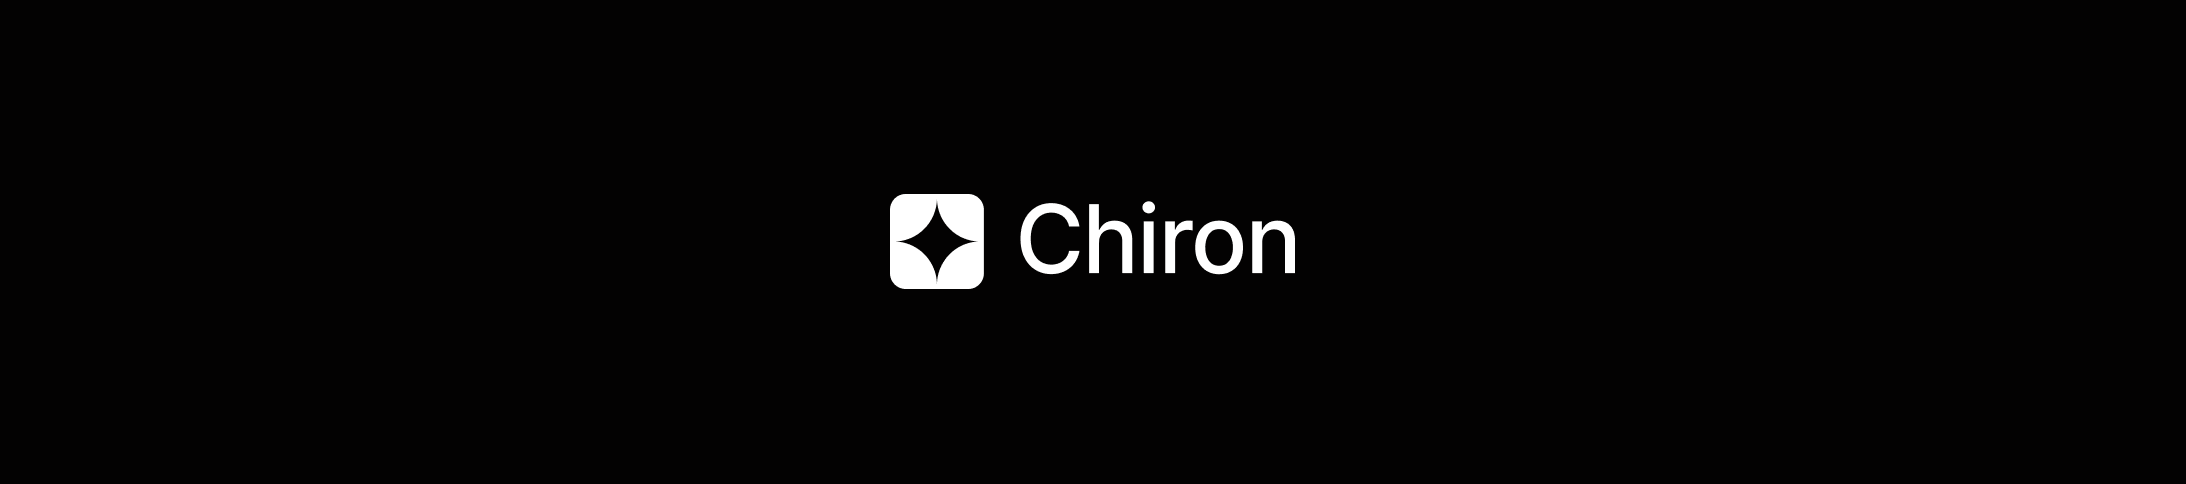
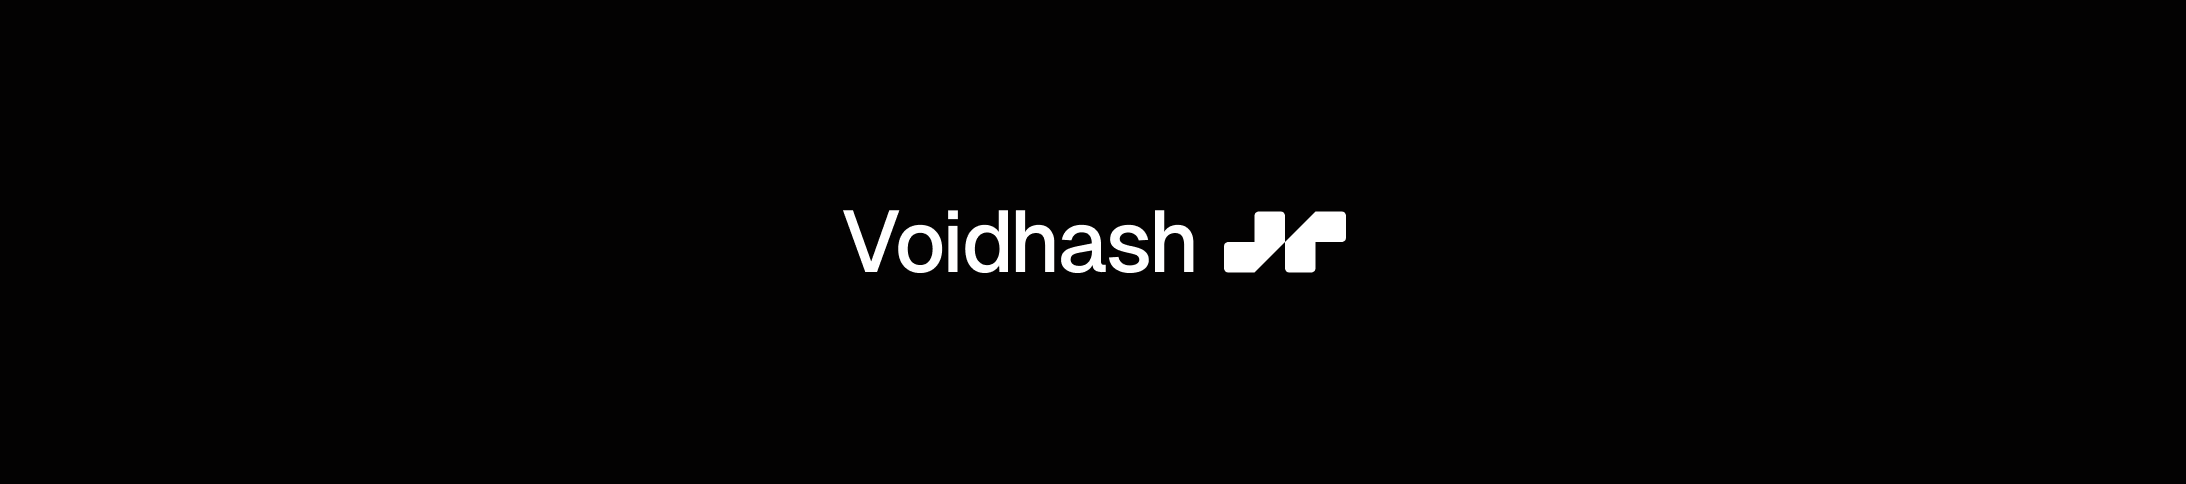
chore: improve readme

Changed region(s): [[0.3733, 0.4029, 0.6221, 0.6198]]

diff --git a/README.md b/README.md
@@ -4,73 +4,71 @@
     <source srcset="./banner.png" media="(prefers-color-scheme: light)">
     <img src="./banner.png" alt="Better Auth Logo">
   </picture>
+<hr />
+  <p>
+    Voidhash is <strong>WIP</strong>. We're working on the first version of the product.
+  </p>
+
+  <hr />
   <h2 align="center">
-    Voidhash
+    Subscription management platform for React Native
   </h2>
 
   <p align="center">
-    <!-- The universal subscription management library in Typescript for orchestrating subscriptions from Google Play, App Store, Stripe and more. -->
-    <br />
-    <a href="https://chiron.sh"><strong>Learn more »</strong></a>
+    Voidhash is an open-source subscription management platform for React Native that allows you to integrate Google Play and App Store purchases with a single command.
     <br />
     <br />
-    <a href="https://chiron.sh">Website</a>
+    <a href="https://voidhash.com"><strong>Join Waitlist →</strong></a>
+    <br />
+    <br />
+    <a href="https://voidhash.com">Website</a>
     ·
-    <a href="https://github.com/voidhashcom/Chiron/issues">Issues</a>
+    <a href="https://github.com/voidhashcom/voidhash">GitHub</a>
+    ·
+    <a href="https://x.com/voidhashcom">Twitter</a>
   </p>
+</p>
 
-<!-- [![npm](https://img.shields.io/npm/dm/better-auth)](https://npm.chart.dev/better-auth?primary=neutral&gray=neutral&theme=dark)
-[![npm version](https://img.shields.io/npm/v/better-auth.svg)](https://www.npmjs.com/package/better-auth)
-[![GitHub stars](https://img.shields.io/github/stars/better-auth/better-auth)](https://github.com/better-auth/better-auth/stargazers) -->
+## ✨ Features
 
-# Roadmap
-Core
-- [x] Teams
--- [x] Create
--- [x] Update
--- [x] Delete
+- **🏪 Multi-Platform Support** - Seamless integration with Google Play and App Store
+- **🔐 Server-Side Validation** - Secure receipt validation on your backend
+- **👥 Customer Management** - Comprehensive customer lifecycle management
+- **📊 Analytics Dashboard** - Track subscriptions, revenue, and user metrics
+- **⚡ Powerful CLI** - Simple command-line interface for quick setup
+- **🎯 React Native First** - Built specifically for React Native applications
 
-- [x] Projects
--- [x] Create
--- [x] Update
--- [x] Delete
+## 🛠 Quick Start
 
+```bash
+# Install the CLI
+npm install voidhash-cli --save-dev
 
-- [ ] Environments
--- [ ] Create
--- [ ] Update
--- [ ] Delete
+# Initialize in your React Native project
+voidhash-cli init
+```
 
-- [ ] Users
--- [x] Sign in
--- [x] Sign up
--- [ ] Forgot password
--- [ ] Reset password
--- [ ] Change password
--- [ ] Change email
--- [x] Sign out
--- [ ] Github sign in
+## 📚 Documentation
 
-- [ ] Customers
--- [ ] List
--- [ ] Detail
+For detailed documentation, visit [voidhash.com](https://voidhash.com)
 
-- [ ] Subscriptions
--- [ ] List
--- [ ] Detail
+## 🤝 Contributing
 
-- [ ] Payments
--- [ ] List
--- [ ] Detail
+We welcome contributions! Please see our [Contributing Guide](CONTRIBUTING.md) for details.
 
-- [ ] Analytics
-- [ ] Dashboard
+## 📄 License
 
-- [ ] Paywalls
-- [ ] A/B testing
+Licensed under the AGPL-3.0 License. See [LICENSE.md](LICENSE.md) for more information.
 
-- [ ] Integrations
+## 🔗 Links
 
+- [Website](https://voidhash.com)
+- [Documentation](https://voidhash.com)
+- [GitHub](https://github.com/voidhashcom/voidhash)
+- [Twitter](https://x.com/voidhashcom)
 
+---
 
+<p align="center">
+  Made with ❤ by <a href="https://voidhash.com">Voidhash s.r.o.</a>
 </p>
